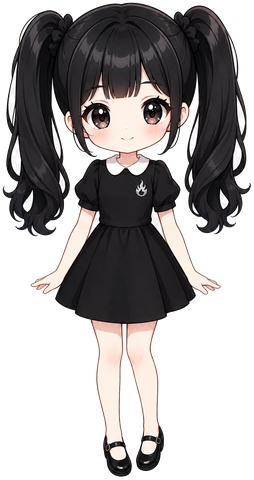
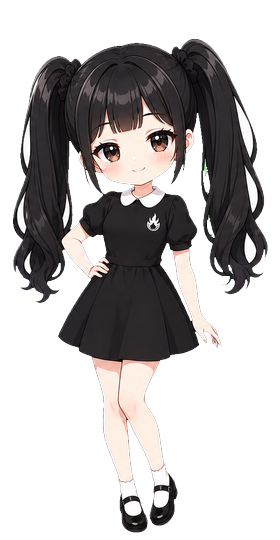
feat(ui): 熔炉桌宠三态改成更有交互的循环 GIF
闲置晃腰摆发、工作打字漏光、等人叉腰招手；戳一下改播跳跃 GIF。
减少动效仍回退 PNG。

diff --git a/web/src/components/FurnaceSprite.vue b/web/src/components/FurnaceSprite.vue
@@ -57,6 +57,7 @@ import { computed, onMounted, onUnmounted, ref, watch } from 'vue'
 import imgIdleGif from '../assets/furnace-idle.gif'
 import imgWorkingGif from '../assets/furnace-working.gif'
 import imgWaitingGif from '../assets/furnace-waiting.gif'
+import imgPokeGif from '../assets/furnace-poke.gif'
 import imgIdlePng from '../assets/furnace-idle.png'
 import imgWorkingPng from '../assets/furnace-working.png'
 import imgWaitingPng from '../assets/furnace-waiting.png'
@@ -108,6 +109,7 @@ const reduceMotion = ref(false)
 
 const spriteSrc = computed(() => {
   const still = reduceMotion.value
+  if (!still && poking.value) return imgPokeGif
   if (props.state === 'working') return still ? imgWorkingPng : imgWorkingGif
   if (props.state === 'waiting') return still ? imgWaitingPng : imgWaitingGif
   return still ? imgIdlePng : imgIdleGif
@@ -164,7 +166,7 @@ function poke() {
   window.clearTimeout(pokeTimer)
   pokeTimer = window.setTimeout(() => {
     poking.value = false
-  }, 520)
+  }, 900)
   const line = POKE_LINES[Math.floor(Math.random() * POKE_LINES.length)]
   say(line, 2800)
 }

diff --git a/CODE_CHANGE.md b/CODE_CHANGE.md
@@ -22,6 +22,12 @@ YYYY-MM-DD | A/M/D/R | 文件路径 | 一句话说明（改了什么、为什么
 
 ## 变更记录
 
+2026-08-20 | M | web/src/assets/furnace-idle.gif / furnace-working.gif / furnace-waiting.gif | 三态改为更有交互的循环动作
+2026-08-20 | A | web/src/assets/furnace-poke.gif | 戳一下跳跃反应
+2026-08-20 | M | web/src/assets/furnace-idle.png / furnace-working.png / furnace-waiting.png | 减少动效时的静帧与新立绘对齐
+2026-08-20 | M | web/src/components/FurnaceSprite.vue | 戳一下改播 poke GIF
+2026-08-20 | M | docs/assets/furnace-pet.gif / frontend-components.md / CODE_CHANGE.md | README 预览图与桌宠说明
+
 2026-08-20 | M | packages/win32 + linux zip | 覆盖 GUI 可读正文运行包
 2026-08-20 | A | docs/crucible-gui-plain.md | GUI 可读正文方案：去壳、不抄 TUI 框
 2026-08-20 | M | shared/ptyPlain.js / FurnaceWorkspace.vue / ptyPlain.test.js | furnaceGuiTranscript 去框线底栏

diff --git a/docs/frontend-components.md b/docs/frontend-components.md
@@ -38,7 +38,7 @@ app.use(ElementPlusX)
 | 区域 | 组件 | 说明 |
 |------|------|------|
 | 壳层顶栏 | `App.vue` + `AppLogo` | 品牌 Logo + 分段导航 |
-| 熔炉桌宠 | `FurnaceSprite` | 贴右、距底约三分之一；默认展开看全身；收起后仍是整个人，不切头顶 |
+| 熔炉桌宠 | `FurnaceSprite` | 贴右、距底约三分之一；闲置/工作/等人三态 GIF，戳一下播跳跃；收起仍是全身 |
 | 熔炉干活面头像 | `FurnaceAvatar` | 仅 GUI 大头；开干活面时藏桌宠 |
 | 熔炉 GUI 附件 | `FurnaceWorkspace` 附件栏 | 落到 `inbox/`，发送写成一行相对路径进 PTY（非 Grok 原生附件） |
 | Logo | `components/AppLogo.vue` · `assets/logo.svg` | **左人 · 中文档 · 右机**（人机协同办公）；见 [brand-logo.md](./brand-logo.md) |

diff --git a/README.md b/README.md
@@ -23,7 +23,7 @@
 > Workflow 负责串起过程，人可以确认、拒绝、插队、绕行，也可以随时回来继续。
 
 <p align="center">
-  <img src="./docs/assets/furnace-pet.gif" alt="熔炉桌宠：黑裙双马尾少女，轻微浮动" width="88" height="170" />
+  <img src="./docs/assets/furnace-pet.gif" alt="熔炉桌宠：黑裙双马尾，闲置时晃腰摆发" width="88" height="170" />
 </p>
 
 <img src="./docs/assets/screenshots/workbench-home.webp" alt="oh-my-co-work 工作台首页：居中欢迎区，口号含终端守护者与熔炉连接一切" width="100%" />
